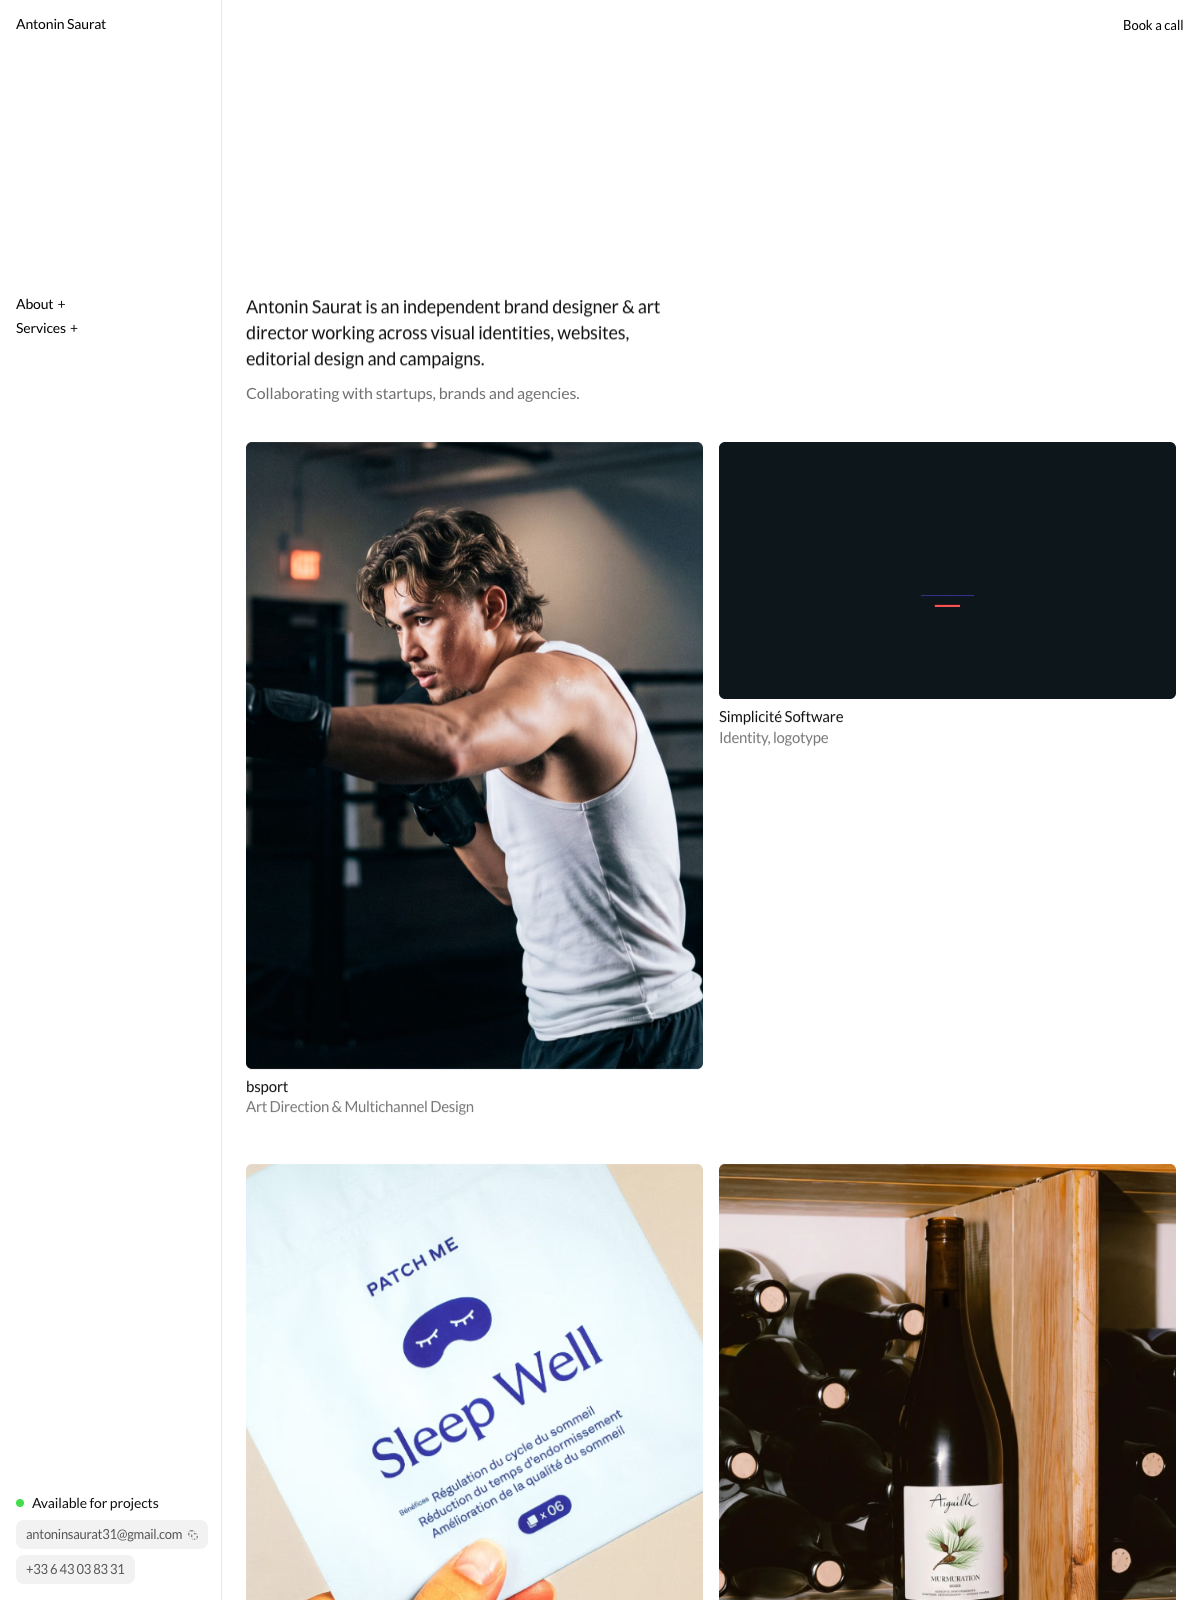
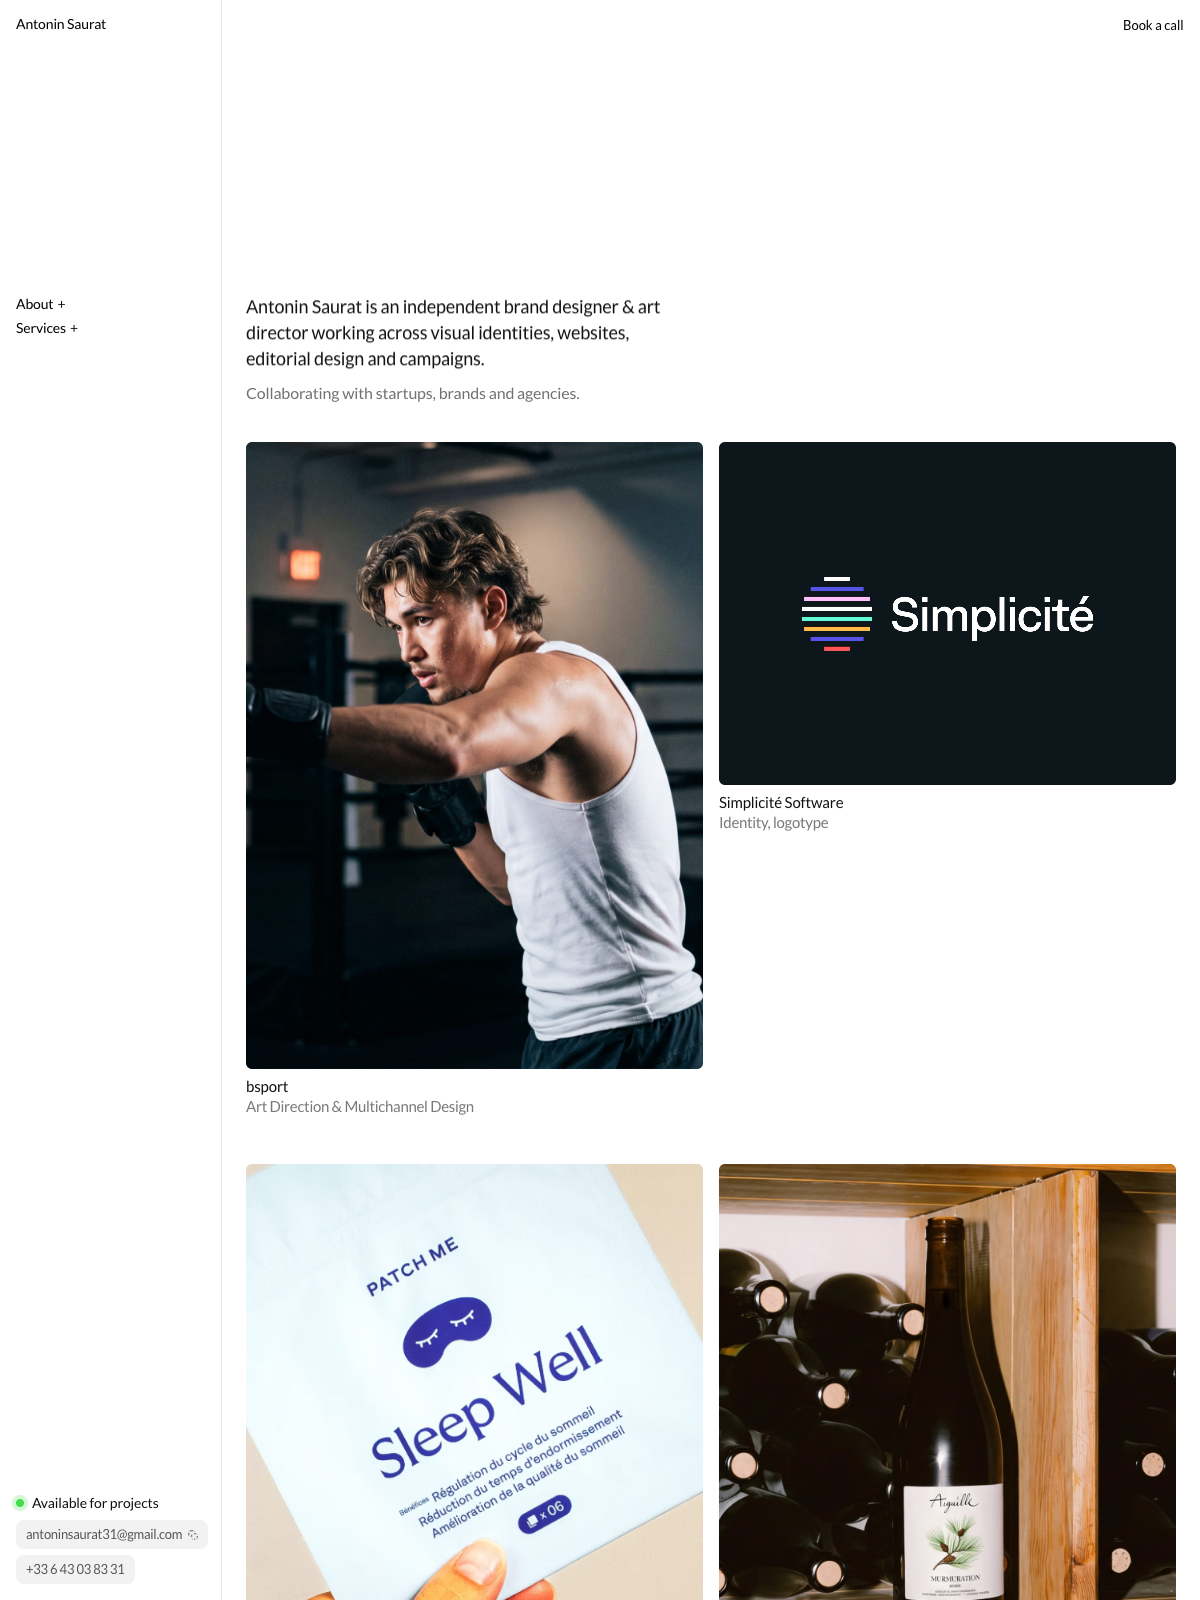
Corriger les screenshots d'Agathe : utiliser portfolio pour hero
- Le screenshot 'hero' était vide (juste logo + tagline)
- Swapper avec portfolio qui montre le design du site (navigation, galerie)
- Agathe's hero now displays the full website interface with projects gallery

Changed region(s): [[0.5858, 0.4375, 0.9867, 0.5312], [0.6783, 0.3438, 0.925, 0.4062]]

diff --git a/scripts/generate-screenshots.js b/scripts/generate-screenshots.js
@@ -33,6 +33,9 @@ async function generateScreenshots() {
       console.log(`Capturant ${site.name}...`);
       await page.goto(site.url, { waitUntil: 'networkidle2', timeout: 30000 });
 
+      // Attendre que le preloader disparaisse complètement
+      await new Promise(resolve => setTimeout(resolve, 2500));
+
       // Premier screenshot (hero)
       await page.screenshot({
         path: path.join(site.outputDir, site.files[0]),
